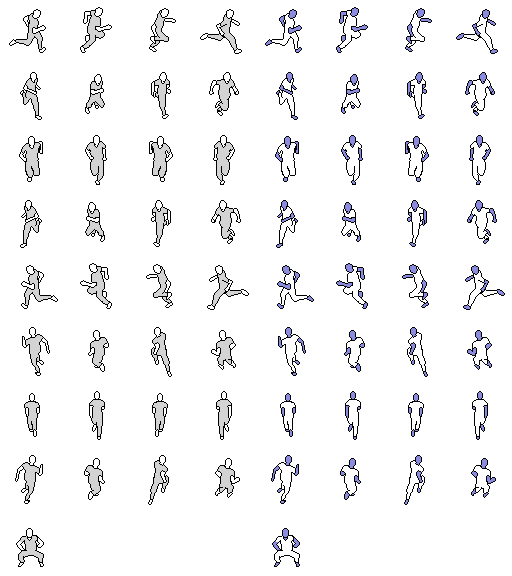
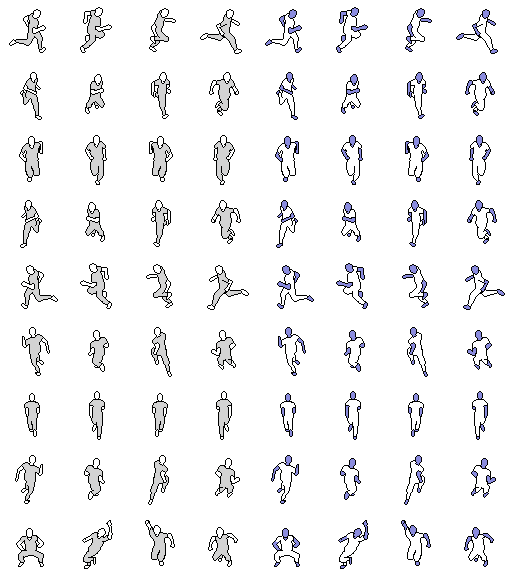
epic catching animation gangnam style

diff --git a/js/game.players.js b/js/game.players.js
@@ -23,8 +23,9 @@ class Player {
     }
 }
 class Fielder extends Player {
-    pitcher = false;
-    base = -1;
+    pitcher = false; catchDir = 0; base = -1;
+    force = { x: 0, y: 0 };
+    caughtBallTimer = 0; throwAnimState = 0;
     constructor(teamname, playerInfo, x, y, type, radius) {
         super(teamname, playerInfo, x, y, type, radius);
         this.Update = function () {
@@ -42,7 +43,16 @@ class Fielder extends Player {
     }
     CatchBall(ball) {
         this.ball = ball;
-        console.log("CAUGHT");
+        console.log("CAUIGHT!");
+        console.log(m2p(this.ball.GetWorldCenter().x));
+        console.log(this.x);
+        if(m2p(this.ball.GetWorldCenter().x) > this.x) {
+            this.catchDir = 0;
+        } else {
+            this.catchDir = 1;
+        }
+        this.caughtBallTimer = 5;
+        this.force = { x: 0, y: 0 };
         const ballData = this.ball.GetUserData();
         ballData.held = true;
         ballData.lastFielder = undefined;
@@ -51,6 +61,7 @@ class Fielder extends Player {
     ThrowBall(target) {
         if (this.ball === null) { return; }
         const dx = target.x - this.x, dy = target.y - this.y;
+        this.catchDir = dx < 0 ? 1 : 0;
         const magnitude = Math.sqrt(dx * dx + dy * dy);
         const force = new b2Vec2(dx / magnitude, dy / magnitude);
         force.Multiply(20);
@@ -62,14 +73,17 @@ class Fielder extends Player {
         ballData.generateParticles = true;
         ballData.nextForce = force;
         this.ball = null;
+        this.throwAnimState = 2;
     }
     Move(x, y) {
         this.x += x;
         this.y += y;
     }
+    GetBallOffset() {
+        return { x: this.x, y : this.y };
+    };
 }
 class Outfielder extends Fielder {
-    force = { x: 0, y: 0 };
     angle = 0;
     constructor(team, playerInfo, x, y) {
         super(team, playerInfo, x, y, "outfielder", 25);
@@ -89,6 +103,8 @@ class Outfielder extends Fielder {
             else if(angle < 0) { angle += 360; }
             sy = Math.floor(angle / 45);
 
+            if(this.caughtBallTimer > 0) { this.caughtBallTimer--; }
+            if(this.throwAnimState > 0) { this.throwAnimState--; }
             moving = this.force.x !== 0 || this.force.y !== 0;
             if(moving) {
                 if(this.force.x !== 0 && this.force.y !== 0) {
@@ -101,7 +117,25 @@ class Outfielder extends Fielder {
             }
         }
         this.Draw = function () {
-            if (moving) {
+            if(this.throwAnimState > 0) {
+                if(this.catchDir === 1) { // throwing to left
+                    const sx = this.throwAnimState === 2 ? 2 : 3;
+                    gfx.DrawCenteredSpriteToCameras("player", this.team, sx, 8, this.x, this.y, "interface", 64, 0.75);
+                    gfx.DrawCenteredSpriteToCameras("player", "baseballers", sx + 4, 8, this.x, this.y, "interface", 64, 0.75);
+                } else { // throwing to right
+                    const sx = this.throwAnimState === 2 ? 5 : 4;
+                    gfx.DrawCenteredSpriteToCameras("player", this.team + "flip", sx, 8, this.x, this.y, "interface", 64, 0.75);
+                    gfx.DrawCenteredSpriteToCameras("player", "baseballersflip", sx - 4, 8, this.x, this.y, "interface", 64, 0.75);
+                }
+            } else if(this.caughtBallTimer > 0) {
+                if(this.catchDir === 1) { // caught from left
+                    gfx.DrawCenteredSpriteToCameras("player", this.team, 1, 8, this.x, this.y, "interface", 64, 0.75);
+                    gfx.DrawCenteredSpriteToCameras("player", "baseballers", 5, 8, this.x, this.y, "interface", 64, 0.75);
+                } else { // caught from right
+                    gfx.DrawCenteredSpriteToCameras("player", this.team + "flip", 6, 8, this.x, this.y, "interface", 64, 0.75);
+                    gfx.DrawCenteredSpriteToCameras("player", "baseballersflip", 2, 8, this.x, this.y, "interface", 64, 0.75);
+                }
+            } else if (moving) {
                 gfx.DrawCenteredSpriteToCameras("player", this.team, animFrame, sy, this.x, this.y, "interface", 64, 0.75);
                 gfx.DrawCenteredSpriteToCameras("player", "baseballers", animFrame + 4, sy, this.x, this.y, "interface", 64, 0.75);
             } else {
@@ -111,9 +145,17 @@ class Outfielder extends Fielder {
         };
     }
     Move(x, y) {
+        if(this.caughtBallTimer > 0) { return; }
         this.force.x += x;
         this.force.y += y;
     }
+    GetBallOffset() {
+        if(this.caughtBallTimer > 0) {
+            return { x: this.x + (this.catchDir === 1 ? 15 : -15), y : this.y - 15 };
+        } else {
+            return { x: this.x - 2, y : this.y + 5 };
+        }
+    };
 }
 class Pitcher extends Outfielder {
     constructor(team, playerInfo, x, y) {

diff --git a/js/game.space.js b/js/game.space.js
@@ -364,11 +364,16 @@ class FieldRunHandler extends Handler {
             gfx.DrawCenteredSpriteToCameras("star", "sprites", data.powerIdx, 0, m2p(pos.x), m2p(pos.y), "interface", 32);
         });
         this.runHandler.AnimUpdate();
-
-        const pos = this.ball.GetWorldCenter();
-        const linearVelocity = this.ball.GetLinearVelocity();
-        const sx = this.GetBallAngle(Math.atan2(linearVelocity.y, linearVelocity.x));
-        gfx.DrawCenteredSpriteToCameras("ball", "sprites", sx, 2, m2p(pos.x), m2p(pos.y), "interface", 32);
+    
+        const fieldHoldingInfo = this.fieldHandler.GetPlayerHoldingBallDetails();
+        if(fieldHoldingInfo !== null) {
+            gfx.DrawCenteredSpriteToCameras("ball", "sprites", 0, 2, fieldHoldingInfo.x, fieldHoldingInfo.y, "interface", 32);
+        } else {
+            const pos = this.ball.GetWorldCenter();
+            const linearVelocity = this.ball.GetLinearVelocity();
+            const sx = this.GetBallAngle(Math.atan2(linearVelocity.y, linearVelocity.x));
+            gfx.DrawCenteredSpriteToCameras("ball", "sprites", sx, 2, m2p(pos.x), m2p(pos.y), "interface", 32);
+        }
 
         gfx.DrawHUDRectToCameras(155, 1, 484, 100, "#FFFFFF", "#000000", "overlay");
         this.minimap.Draw();

diff --git a/js/game.data.js b/js/game.data.js
@@ -65,6 +65,7 @@ function InningData() {
 function Team(player, idx, isPlayerControlled) {
     const teamInfo = TeamInfo[idx];
     gfx.TintSheet("baseballers", teamInfo.color, teamInfo.name);
+    gfx.FlipSheet(teamInfo.name);
     gfx.TintSheet("bigsprites", teamInfo.color, teamInfo.name + "_big");
     gfx.TintSheet("pitcher", teamInfo.color, teamInfo.name + "_pitcher");
     gfx.TintSheet("batter", teamInfo.color, teamInfo.name + "_batter");

diff --git a/js/game.misc.js b/js/game.misc.js
@@ -3,6 +3,7 @@ const Title = {
     animFrame: 0, animCounter: 0,
     Init: function(state) {
         gfx.FlipSheet("helmets");
+        gfx.FlipSheet("baseballers");
         this.animFrame = 0;
         this.animCounter = 0;
         if(state !== undefined) {
